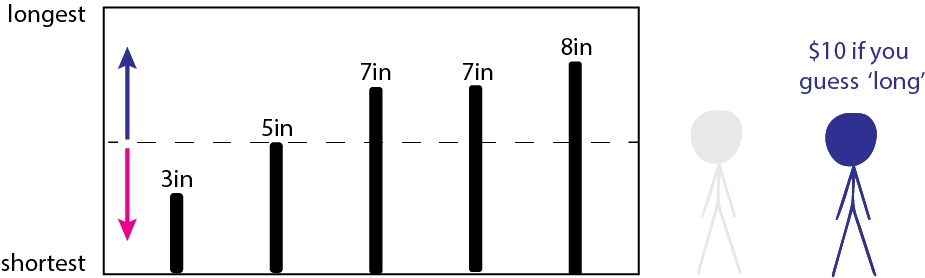
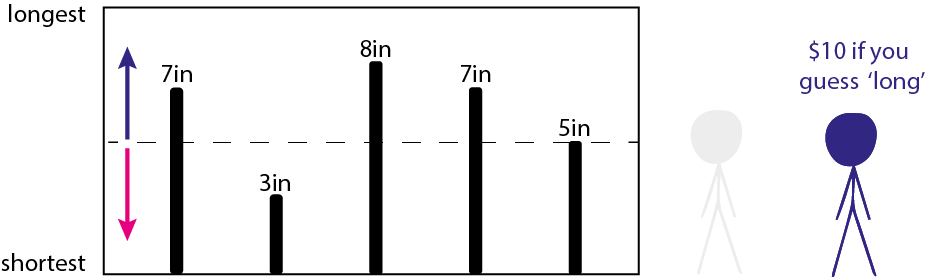
changed stick orderings in graphics

diff --git a/experiments/replication/experiment.html b/experiments/replication/experiment.html
@@ -77,7 +77,7 @@
       var timeline = [];
 
       // Values fixed for human experiments.
-      var iterationName = 'prolificReplication1'
+      var iterationName = 'prolificReplication2'
       var numSticks = 5
       var agentBias = 10
       var sliderWidthScale = 0.7
@@ -502,7 +502,7 @@
 
         var pink_second_move = {
           type: "image-slider-response",
-          stimulus: "static/sticks" + (10 * agent1stick) + "and" + (10 * agent2stick) + ".png",
+          stimulus: "static/sticks" + (10 * agent2stick) + "and" + (10 * agent1stick) + ".png",
           prompt:
             "<p>Now, the pink contestant shows a stick of length " +
             (10 * agent1stick) + "in from the set.</p>" +
@@ -566,7 +566,20 @@
 
         timeline.push(postJudgeSurvey);
 
-        var final_decision = {
+        var final_decision_blue_first = {
+          type: "image-button-response",
+          stimulus: "static/sticks" + (10 * agent2stick) + "and" + (10 * agent1stick) + ".png",
+          prompt:
+            "<p>Do you think that the average of the five sticks is longer than " +
+            "or shorter than 5in?</p>",
+          choices: ['Shorter than 5in', 'Longer than 5in'],
+          force_wait: 5000,
+          data: {
+            stimulus_type: '2afc'
+          }
+        };
+
+        var final_decision_pink_first = {
           type: "image-button-response",
           stimulus: "static/sticks" + (10 * agent1stick) + "and" + (10 * agent2stick) + ".png",
           prompt:
@@ -579,8 +592,6 @@
           }
         };
 
-        timeline.push(final_decision);
-
         var thankYouVerdict = {
           type: "html-button-response",
           stimulus: "<p>Thank you for your verdict! Before you go, " +
@@ -590,7 +601,22 @@
 
         timeline.push(thankYouVerdict);
 
-        var meanGuess = {
+        var meanGuessBlueFirst = {
+          type: "image-slider-response",
+          stimulus: "static/sticks" + (10 * agent2stick) + "and" + (10 * agent1stick) + ".png",
+          prompt:
+            "<p>What do you think is the average length of all five sticks? " +
+            "Use the slider to record your answer.</p>",
+          labels: ['1in', '5in', '9in'],
+          slider_width: sliderWidthScale * screen.width,
+          require_movement: true,
+          force_wait: 5000,
+          data: {
+            stimulus_type: 'meanSlider'
+          }
+        };
+
+        var meanGuessPinkFirst = {
           type: "image-slider-response",
           stimulus: "static/sticks" + (10 * agent1stick) + "and" + (10 * agent2stick) + ".png",
           prompt:
@@ -605,9 +631,28 @@
           }
         };
 
-        timeline.push(meanGuess);
+        var genSticksBlueFirst = {
+          type: 'image-button-response',
+          stimulus: "static/sticks" + (10 * agent2stick) + "and" + (10 * agent1stick) + ".png",
+          choices: ['1in', '2in', '3in', '4in', '5in', '6in', '7in', '8in', '9in'],
+          timeline: [
+            {prompt:
+              '<p> What do you think the length of the third stick is?</p>',
+             data: {stimulus_contestant: 'third'}},
+            {prompt:
+              '<p> What do you think the length of the fourth stick is?</p>',
+             data: {stimulus_contestant: 'fourth'}},
+            {prompt:
+              '<p> What do you think the length of the fifth stick is?</p>',
+             data: {stimulus_contestant: 'fifth'}}
+          ],
+          force_wait: 3000,
+          data: {
+            stimulus_type: 'genModel'
+          }
+        };
 
-        var genSticks = {
+        var genSticksPinkFirst = {
           type: 'image-button-response',
           stimulus: "static/sticks" + (10 * agent1stick) + "and" + (10 * agent2stick) + ".png",
           choices: ['1in', '2in', '3in', '4in', '5in', '6in', '7in', '8in', '9in'],
@@ -627,8 +672,6 @@
             stimulus_type: 'genModel'
           }
         };
-
-        timeline.push(genSticks);
 
         // Allows us to measure the strong evidence effect for listeners.
 
@@ -685,7 +728,7 @@
 
         var post_pink_second_move = {
           type: "image-slider-response",
-          stimulus: "static/sticks" + (10 * agent1stick) + "and" + (10 * agent2stick) + "redgrey.png",
+          stimulus: "static/sticks" + (10 * agent2stick) + "and" + (10 * agent1stick) + "redgrey.png",
           prompt:
             "<p>How biased is the pink contestant?</p>",
           labels: ['Motivated to show shorter sticks',
@@ -701,7 +744,7 @@
         };
 
         var long_first_bias_procedure = {
-            timeline: [post_blue_first_move, post_pink_second_move],
+            timeline: [final_decision_blue_first, meanGuessBlueFirst, genSticksBlueFirst, post_blue_first_move, post_pink_second_move],
             conditional_function: function(){
                 if(firstContestant == 'long'){
                     return true;
@@ -714,7 +757,7 @@
         timeline.push(long_first_bias_procedure);
 
         var short_first_bias_procedure = {
-            timeline: [post_pink_first_move, post_blue_second_move],
+            timeline: [final_decision_pink_first, meanGuessPinkFirst, genSticksPinkFirst, post_pink_first_move, post_blue_second_move],
             conditional_function: function(){
                 if(firstContestant == 'short'){
                     return true;
